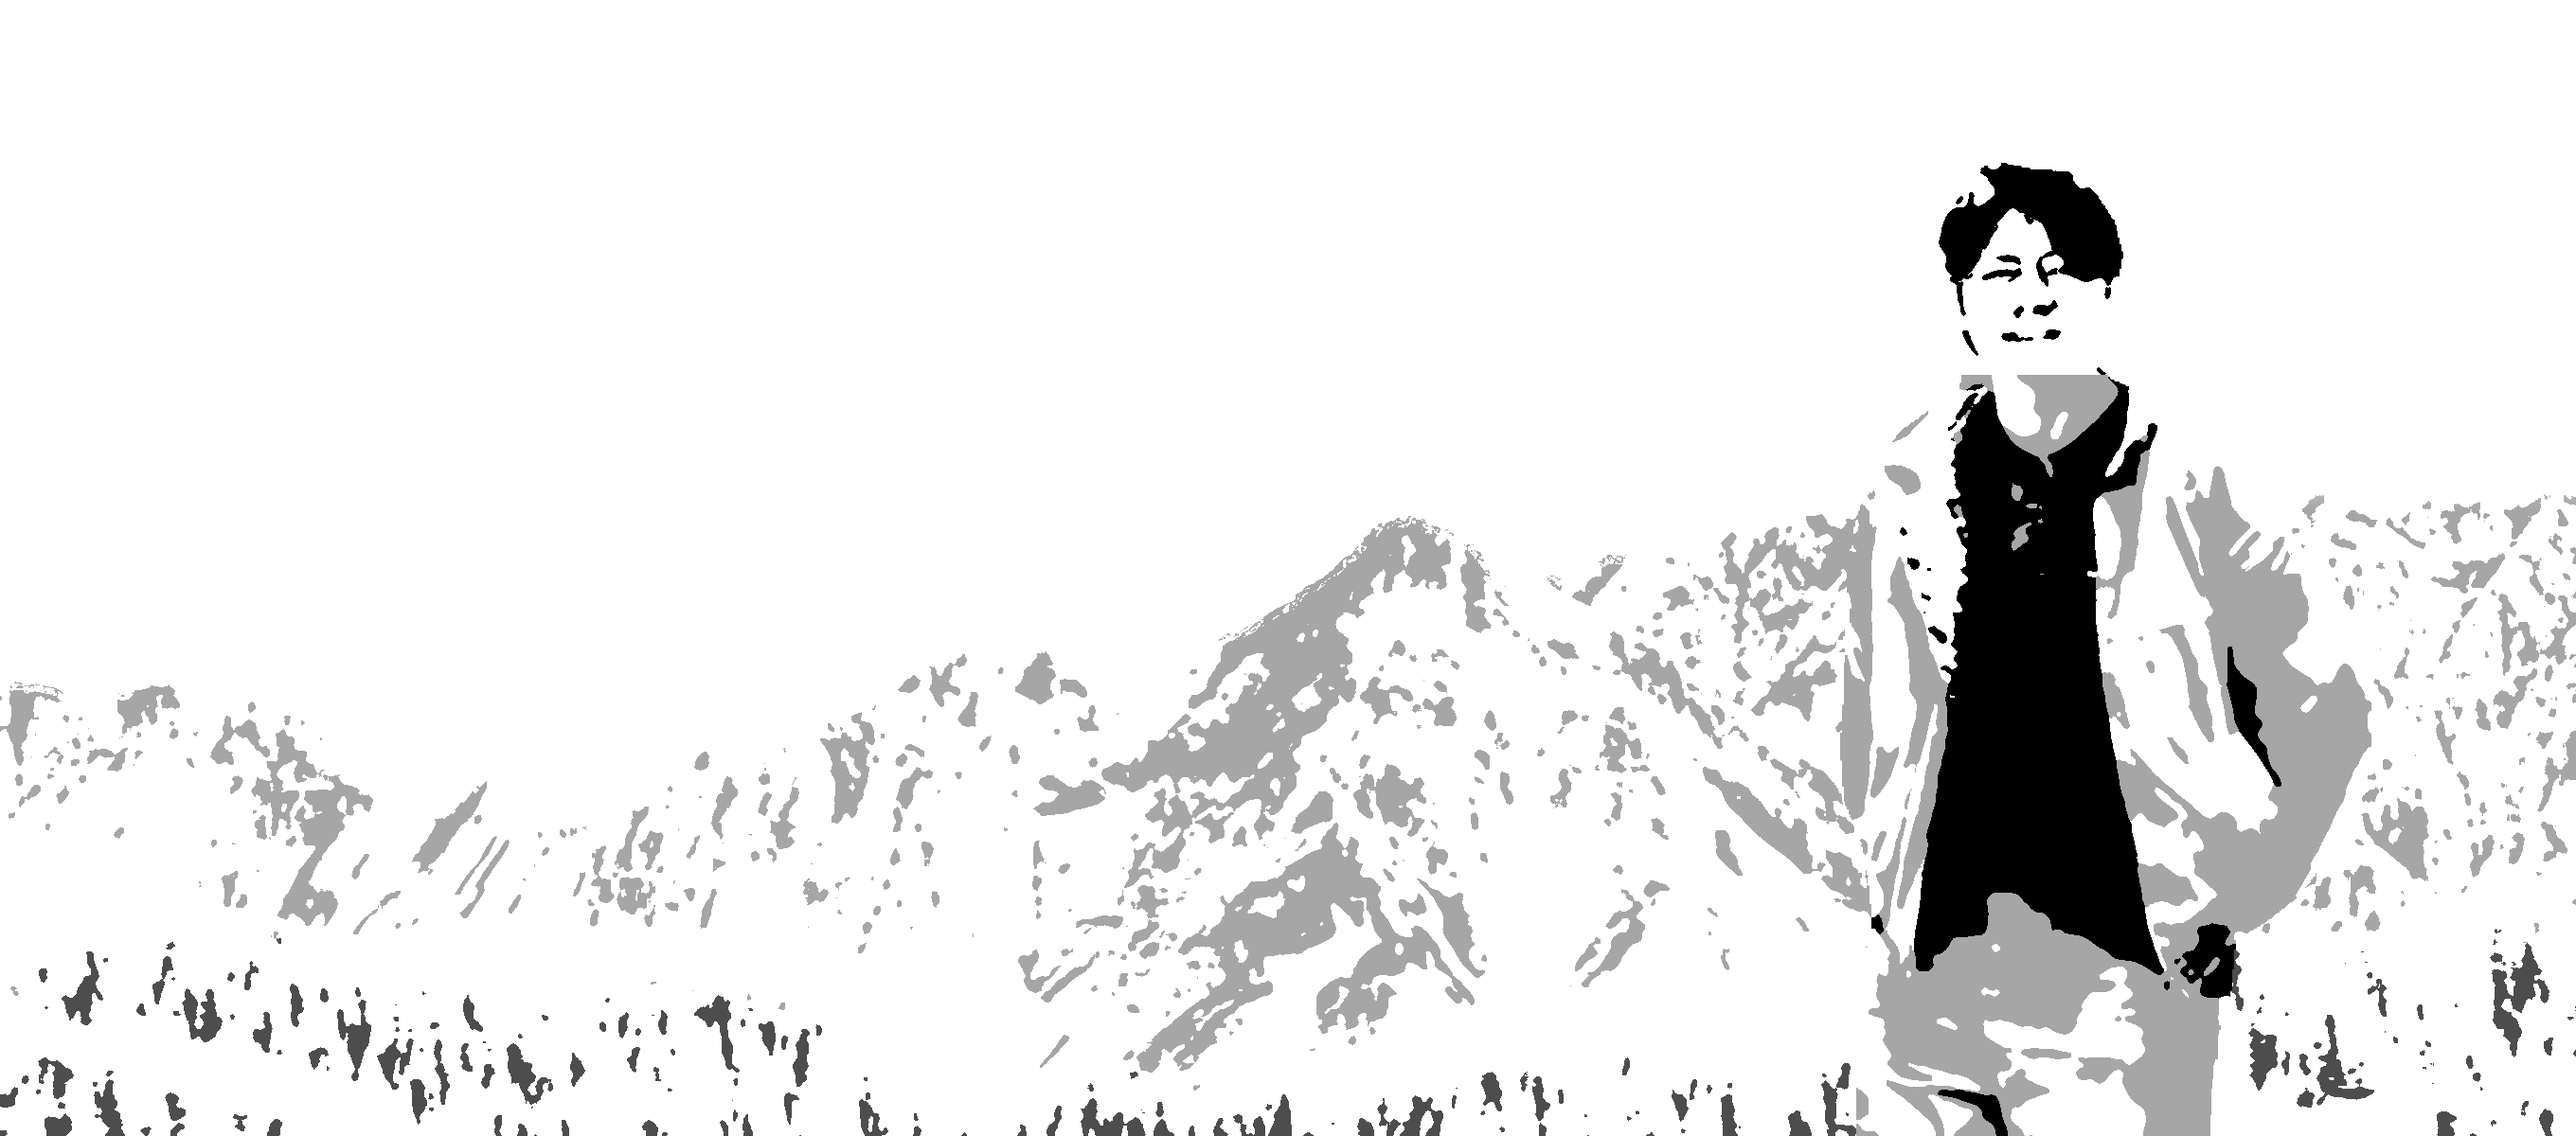
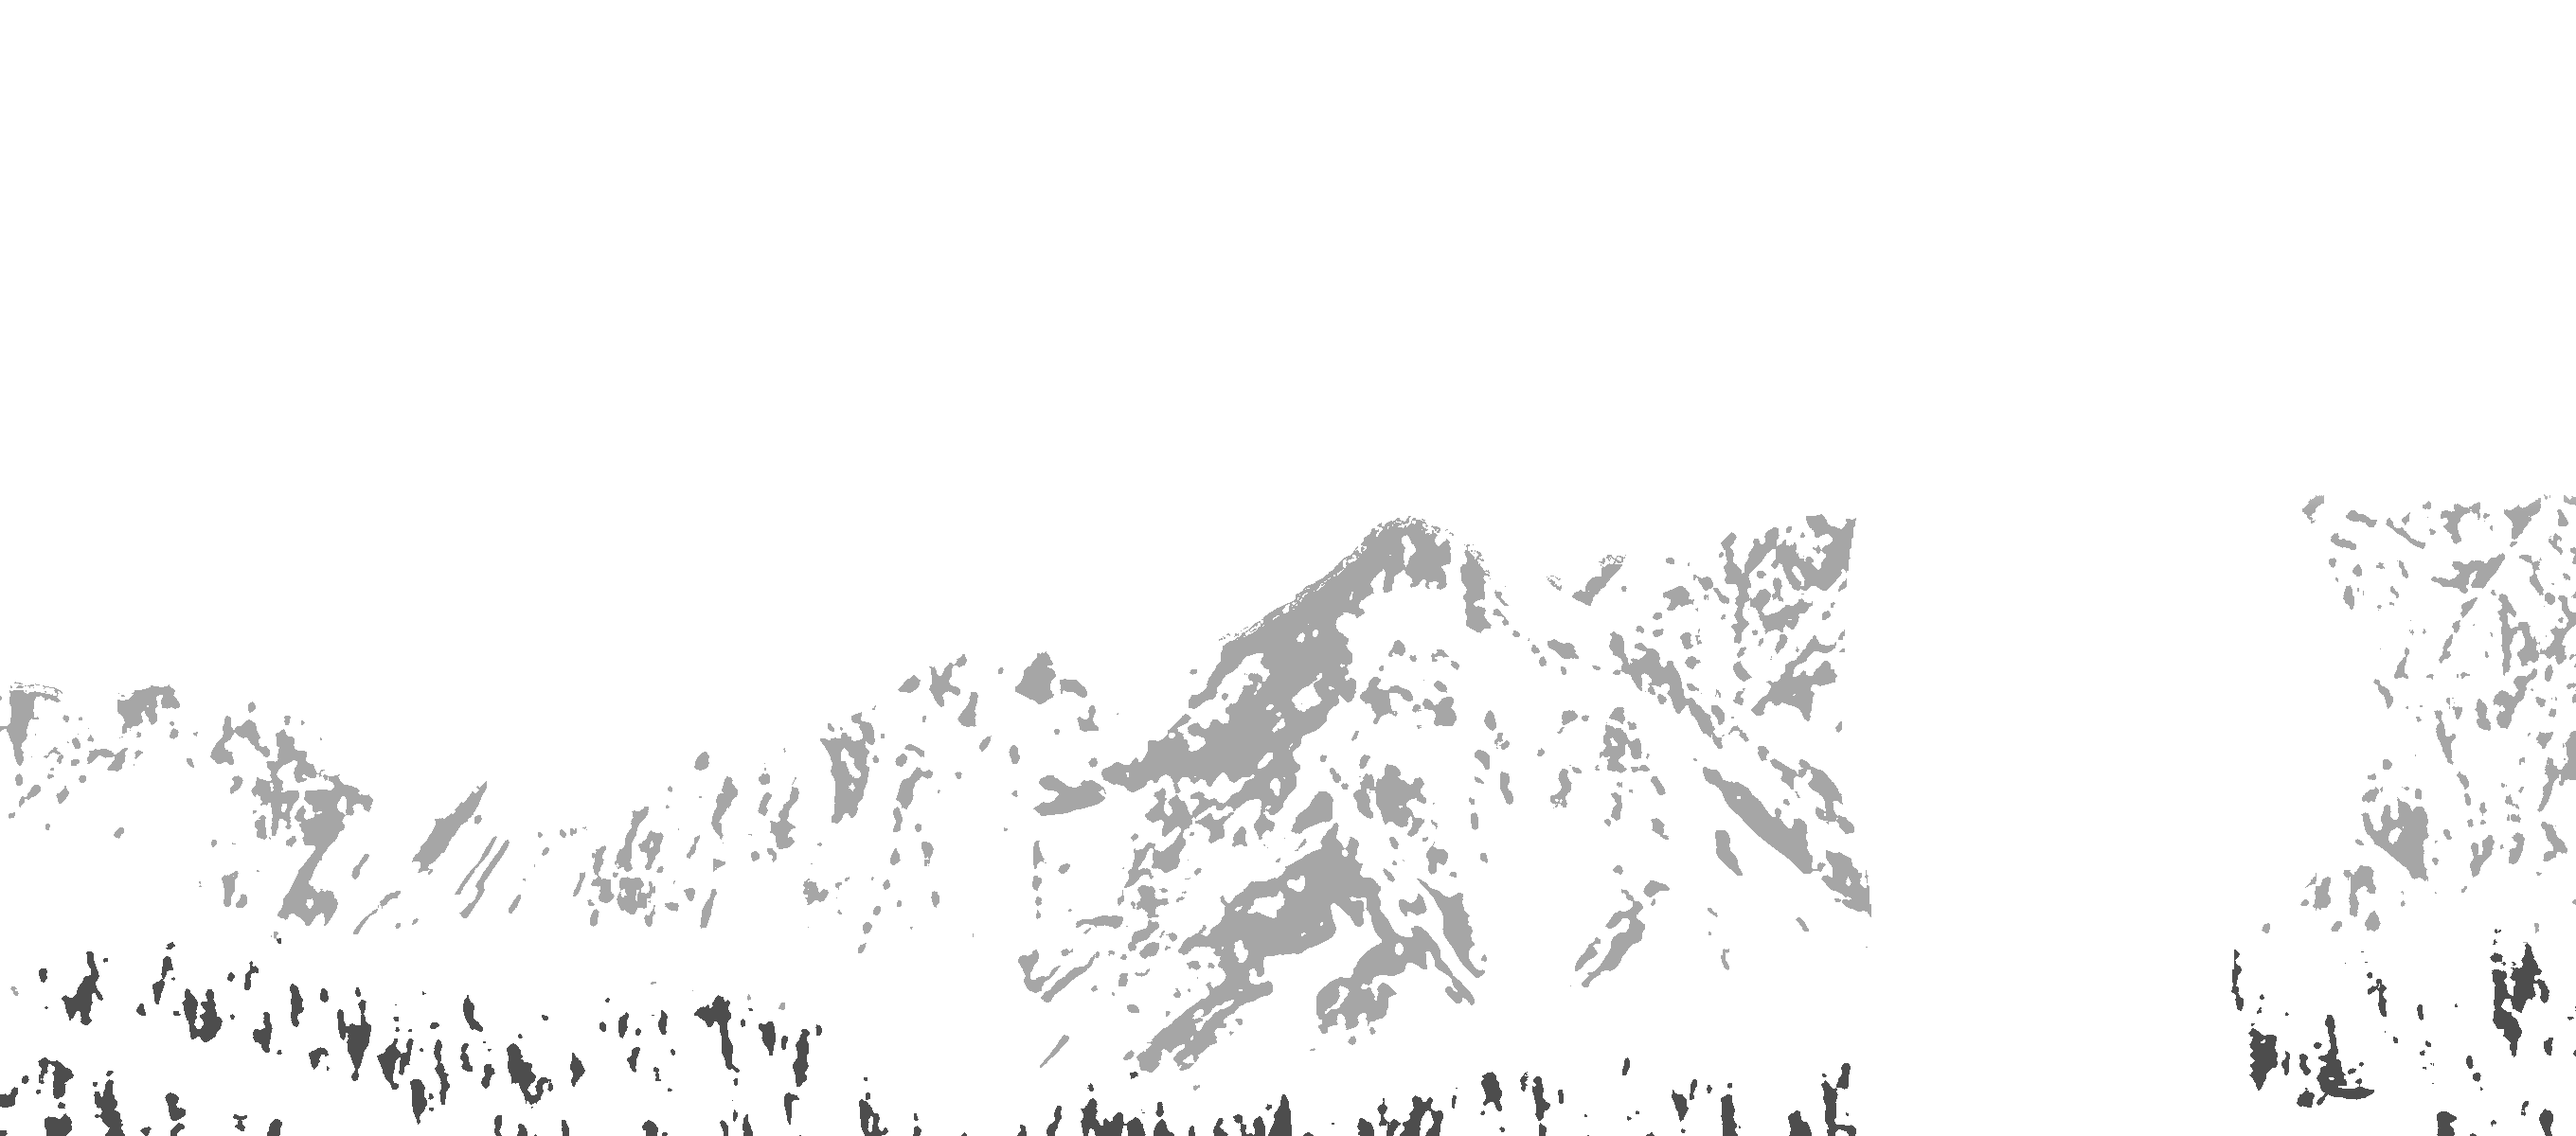
Figure screen tier (3px) for people; finer four-ink face
screen.ts gains a 'figure' tier at 3 CSS px for people in printed images
(user decision; documented in DESIGN_CONSTRAINTS). The four-ink landscape
puts the person on plates of his own, screened on the figure tier and
merged per ink with the 4px landscape. The face now takes four skin tones
(multi-level Otsu) with a light mode filter, and solid dark features from
an adaptive threshold.

Claude-Session: https://claude.ai/code/session_01AwCbWbsfmMjfusHVwzczHG

Changed region(s): [[0.6875, 0.3083, 0.9375, 1.0], [0.75, 0.1233, 0.8438, 0.2775]]

diff --git a/src/design/screen.ts b/src/design/screen.ts
@@ -2,8 +2,10 @@
  * The em tier follows type; actual rendering snaps its pitch to whole CSS px.
  * Pixel alignment reduces sampling variation; it cannot eliminate moiré at all
  * zoom levels, DPRs, or scaled previews. All current production screens use AM. */
-export const screenScale = {fine:2,medium:4,coarseEm:1/16} as const;
-export type ScreenLevel = 'fine'|'medium'|'coarse';
+/** figure (3px, user 2026-10-25): people in printed images. Faces need more than 4px gives,
+ * and 2px loses the visible dot. Not for geometry, grounds or type. */
+export const screenScale = {fine:2,figure:3,medium:4,coarseEm:1/16} as const;
+export type ScreenLevel = 'fine'|'figure'|'medium'|'coarse';
 export type ScreenInk = 'a'|'b';
 export type ScreenShape = 'round'|'square';
 export interface ScreenSettings {primaryAngle:number;secondaryAngle:number;primaryDotShape:string;secondaryDotShape:string;}
@@ -20,7 +22,7 @@ export function typeScreenLevel(fontSize:number):ScreenLevel|null{
  return Math.round(fontSize*screenScale.coarseEm)>=screenScale.medium*1.5?'coarse':'fine';
 }
 export function screenTokens(s:ScreenSettings){
- return {'--screen-fine':`${screenScale.fine}px`,'--screen-medium':`${screenScale.medium}px`,'--screen-coarse':`${screenScale.coarseEm}em`,
+ return {'--screen-fine':`${screenScale.fine}px`,'--screen-figure':`${screenScale.figure}px`,'--screen-medium':`${screenScale.medium}px`,'--screen-coarse':`${screenScale.coarseEm}em`,
   '--screen-angle-a':`${s.secondaryAngle}deg`,'--screen-angle-b':`${s.primaryAngle}deg`,
   '--screen-shape-a':s.secondaryDotShape,'--screen-shape-b':s.primaryDotShape};
 }

diff --git a/src/client/screen-audit.ts b/src/client/screen-audit.ts
@@ -2,7 +2,7 @@ import '../styles/screen-audit.css';
 import {design} from '../config/design';
 import {resolve,type DesignConfig} from '../design/settings';
 import {screen,type ScreenLevel} from '../design/screen';
-const labels={coarse:'字级',medium:'图像',fine:'平网'};
+const labels={coarse:'字级',medium:'图像',figure:'人物',fine:'平网'};
 export function initScreenAudit(root:HTMLElement){
  let config:DesignConfig=design,raf=0,last='';
  const overlay=document.createElement('div');overlay.className='he-screen-audit-layer';overlay.setAttribute('aria-hidden','true');root.append(overlay);

diff --git a/src/config/home-landscape.ts b/src/config/home-landscape.ts
@@ -21,4 +21,6 @@ export const homeLandscape={
  fourInkPlates:'src/assets/home/landscape-4c',
  /** Four inks keep the landscape's medium tier: the dots should read (user, 2026-10-25). */
  fourInkScreen:'medium' as const,
+ /** The person prints on the figure screen (3px): faces need it (user, 2026-10-25). */
+ figureScreen:'figure' as const,
 };

diff --git a/design/photo/home_landscape_4c.py b/design/photo/home_landscape_4c.py
@@ -1,7 +1,7 @@
 """Four-ink separation of the home "mountain and person" image, as a Riso print is made:
 from the inks and their overprints, not from the photo's continuous colour.
 
-python3 design/photo/home_landscape_4c.py  ->  src/assets/home/landscape-4c/{a,b,c,d}.png
+python3 design/photo/home_landscape_4c.py  ->  src/assets/home/landscape-4c/{,figure-}{a,b,c,d}.png
 
 Inks: a vermilion, b blue, c yellow, d dark. Every plate uses only four levels,
 0 / 35 / 70 / 100 %; a colour on the sheet is one of those levels per ink, overprinted
@@ -13,7 +13,8 @@ the region's colours come from a small, fixed overprint palette:
   rock    blue tints, dark only in the deepest shadow   -> a cool blue mountain
   forest  blue over yellow                              -> green
   person  vermilion over yellow for skin and jacket, dark for hair and shirt, blue plaid;
-          the head separately: solid dark hair, dark features, skin in two flat tones
+          the head separately: solid dark hair and features, skin in four flat tones;
+          the person has plates of his own, printed on the 3px figure screen
 (the swatch lists are SWATCHES below)
 
 The photo supplies only shapes and light/dark: each region is reduced to a few colours
@@ -109,7 +110,7 @@ SWATCHES = {
     'rock':   ['paper', 'b35', 'b70', 'b100', 'b100+d35'],
     'forest': ['b35+c35', 'b35+c70', 'b70+c70', 'b100+c35', 'b100+d70'],
     'person': ['paper', 'c35', 'a35+c35', 'a35+c70', 'a70+d35', 'b70', 'd70', 'd100'],
-    'head':   ['d100', 'd100', 'a35+c70', 'a35+c35'],             # hair, features (solid, so small shapes stay crisp), skin shadow, skin light
+    'skin':   ['a70+c70', 'a35+c70', 'a35+c35', 'c35'],           # dark -> light; hair and features print d100
 }
 for name, mask, n, mode in [('rock', rock, 6, 9), ('forest', forest, 5, 7)]:
     labels, dens = to_swatches(shaped, mask, SWATCHES[name], n, seed=len(name))
@@ -143,12 +144,12 @@ pd = np.zeros((ph, pw, 4), np.float32)
 labels, dens = to_swatches(prgb, body, SWATCHES['person'], 8, seed=7)
 place(dens, flatten(labels, body, 9), body, pd)
 
-# Head: few, large shapes. Hair is the largest dark, neutral region of the head with its
-# highlights closed in (scikit-image morphology): solid dark. The face is the rest:
-# its locally dark marks (brows, eyes, nostrils, mouth) print solid dark, and the
-# skin splits into light and shadow at its Otsu threshold.
-from skimage.filters import threshold_otsu
-hrgb = np.clip(restoration.denoise_tv_chambolle(person[..., :3], weight=.1, channel_axis=-1), 0, 1)
+# Head: small shapes, printed on the finer figure screen. Hair is the largest dark, neutral
+# region of the head with its highlights closed in (scikit-image morphology). The face is the
+# rest: the skin takes four tones from multi-level Otsu thresholds, and locally dark marks
+# (brows, eyes, nostrils, mouth, from an adaptive threshold) print solid dark on top.
+from skimage.filters import threshold_local, threshold_multiotsu
+hrgb = np.clip(restoration.denoise_tv_chambolle(person[..., :3], weight=.05, channel_axis=-1), 0, 1)
 hlab = color.rgb2lab(hrgb); hL = hlab[..., 0]; hC = np.hypot(hlab[..., 1], hlab[..., 2])
 dark = head & (hL < 40) & (hC < 16)          # hair is dark and neutral; face shadows are dark but warm
 dark = morphology.remove_small_holes(morphology.closing(dark, morphology.disk(max(2, ph // 160))), (ph // 25) ** 2)
@@ -156,29 +157,30 @@ lbl = measure.label(dark)
 hair = lbl == (max(measure.regionprops(lbl), key=lambda r: r.area).label if lbl.max() else -1)
 face = head & ~hair
 fL = hL[face]
-from skimage.filters import threshold_local
-# Features are locally dark (brows, eyes, nostrils, mouth): an adaptive threshold finds them
-# relative to the skin around them, not to the whole face.
-block = (ph // 24) | 1
-features = face & (hL < threshold_local(hL, block, offset=6)) & (hL < np.percentile(fL, 45))
-features = morphology.remove_small_objects(morphology.erosion(features, morphology.disk(1)), max(4, (ph // 300) ** 2))
-skin_cut = threshold_otsu(fL[fL >= np.percentile(fL, 13)])
-HEAD = SWATCHES['head']   # hair, features, skin shadow, skin light
+features = face & (hL < threshold_local(hL, (ph // 30) | 1, offset=5)) & (hL < np.percentile(fL, 50))
+features = morphology.remove_small_objects(features, max(3, (ph // 400) ** 2))
+SKIN = SWATCHES['skin']                                     # dark -> light
+cuts = threshold_multiotsu(fL, classes=len(SKIN))
 hl = np.full(head.shape, -1, np.int32)
-hl[hair] = 0; hl[face] = np.where(hL[face] < skin_cut, 2, 3)
-hdens = np.array([swatch(sp) for sp in HEAD])
-hl = flatten(hl, head, 7)
-hl[morphology.binary_dilation(features, morphology.disk(1)) & face] = 1          # features go on after the clean-up, so the mode filter cannot erase them
+hl[face] = np.digitize(hL[face], cuts)                      # 0 darkest .. 3 lightest
+hl[hair] = len(SKIN)
+hdens = np.array([swatch(sp) for sp in SKIN + ['d100']])
+hl = flatten(hl, head, 3)
+hl[features] = len(SKIN)                                    # after the clean-up, so it cannot erase them
 place(hdens, hl, head, pd)
-# Hard edge, as a cut plate: the matte is thresholded, not blended.
+
+# The person is cut out of the landscape plates and kept on plates of his own: he prints
+# on the figure screen (3px), the landscape on the image screen (4px).
 x0, x1 = max(px, 0), min(px + pw, W); sx = x0 - px
-sub = plates[py:py + ph, x0:x1]; a = inside[:, sx:sx + x1 - x0, None]
-plates[py:py + ph, x0:x1] = np.where(a, pd[:, sx:sx + x1 - x0], sub)
+a = inside[:, sx:sx + x1 - x0, None]
+plates[py:py + ph, x0:x1] = np.where(a, 0, plates[py:py + ph, x0:x1])
+figure = np.zeros_like(plates); figure[py:py + ph, x0:x1] = np.where(a, pd[:, sx:sx + x1 - x0], 0)
 
 # ---------------------------------------------------------------- output
 out = root / 'src' / 'assets' / 'home' / 'landscape-4c'; out.mkdir(parents=True, exist_ok=True)
-for i, ink in enumerate(INKS):
-    img = np.zeros((H, W, 4), np.uint8); img[..., 3] = np.round(np.clip(plates[..., i], 0, 1) * 255)
-    Image.fromarray(img).save(out / f'{ink}.png', optimize=True)
-used = {tuple(v) for v in plates.reshape(-1, 4)[::97]}
+for prefix, layer in (('', plates), ('figure-', figure)):
+    for i, ink in enumerate(INKS):
+        img = np.zeros((H, W, 4), np.uint8); img[..., 3] = np.round(np.clip(layer[..., i], 0, 1) * 255)
+        Image.fromarray(img).save(out / f'{prefix}{ink}.png', optimize=True)
+used = {tuple(v) for v in (plates + figure).reshape(-1, 4)[::97]}
 print('distinct ink combinations on the sheet (sampled):', len(used))

diff --git a/docs/DESIGN_CONSTRAINTS.md b/docs/DESIGN_CONSTRAINTS.md
@@ -51,15 +51,16 @@
 
 `resolve()` 中的 `pageLocked` 统一解析墨色、网角、点形和套准；旧局部配方可被读取，但不得覆盖这些全局参数。叠印使用共享 multiply 逻辑；这是一种屏幕模拟，不是印厂分色文件。
 
-## 4. 只有三档网点
+## 4. 网点档位（三档 + 人物档）
 
 | 档位 | 当前频率 | 用途 |
 | --- | --- | --- |
 | coarse · 字级 | `1/16em`，按实际字号取整到 CSS px | 大字姓名的表现性蓝网层；当前桌面约 8px |
 | medium · 图像 | 4 CSS px | 相邻圆形底版和其他几何 |
+| figure · 人物 | 3 CSS px | 印刷图像中的人物（2026-10-25 用户决定：4px 认不出五官，2px 又看不出网点）；只用于人物，不用于几何、底形或文字 |
 | fine · 细网 | 2 CSS px | 浅墨底形、背景、分隔区域、人像（2026-10-14 用户调整：4px 时人脸不易辨认），窄屏显示级姓名，以及设计工具渲染的连续调项目标记原稿（2026-10-23 用户同意：渐变与投影在 4px 下读不出来；`src/design/motif-levels.ts`） |
 
-- 唯一频率来源是 `src/design/screen.ts` 的 `screen(level, ink)` 与 `--screen-*` tokens。不要在组件里新增 3px、5px、6px 等自由网距。
+- 唯一频率来源是 `src/design/screen.ts` 的 `screen(level, ink)` 与 `--screen-*` tokens。3px 只作为 figure 档存在；不要在组件里新增其他自由网距（5px、6px 等）。
 - 字级随字号变化；平网/图像用固定 CSS px。实际渲染的网距取整；当前字级与图像档相差不足 1.5 倍时复用 fine 细网，避免看似误差的第四档；由共享 `typeScreenLevel()` 按实际字号选择，不按画幅切换成实色。
 - 同色、相邻或重叠的对象使用同一档。例外：人像改用 fine（`portraitScreenLevel`，`src/config/portrait-composition.ts`，构建图与实时渲染共用），背后的圆是同一块合成印版，随人像一起用 fine。
 - 可以按对象调整浓度、影调和覆盖率；不能同时改变同种墨的全局角度、形状或套准。
